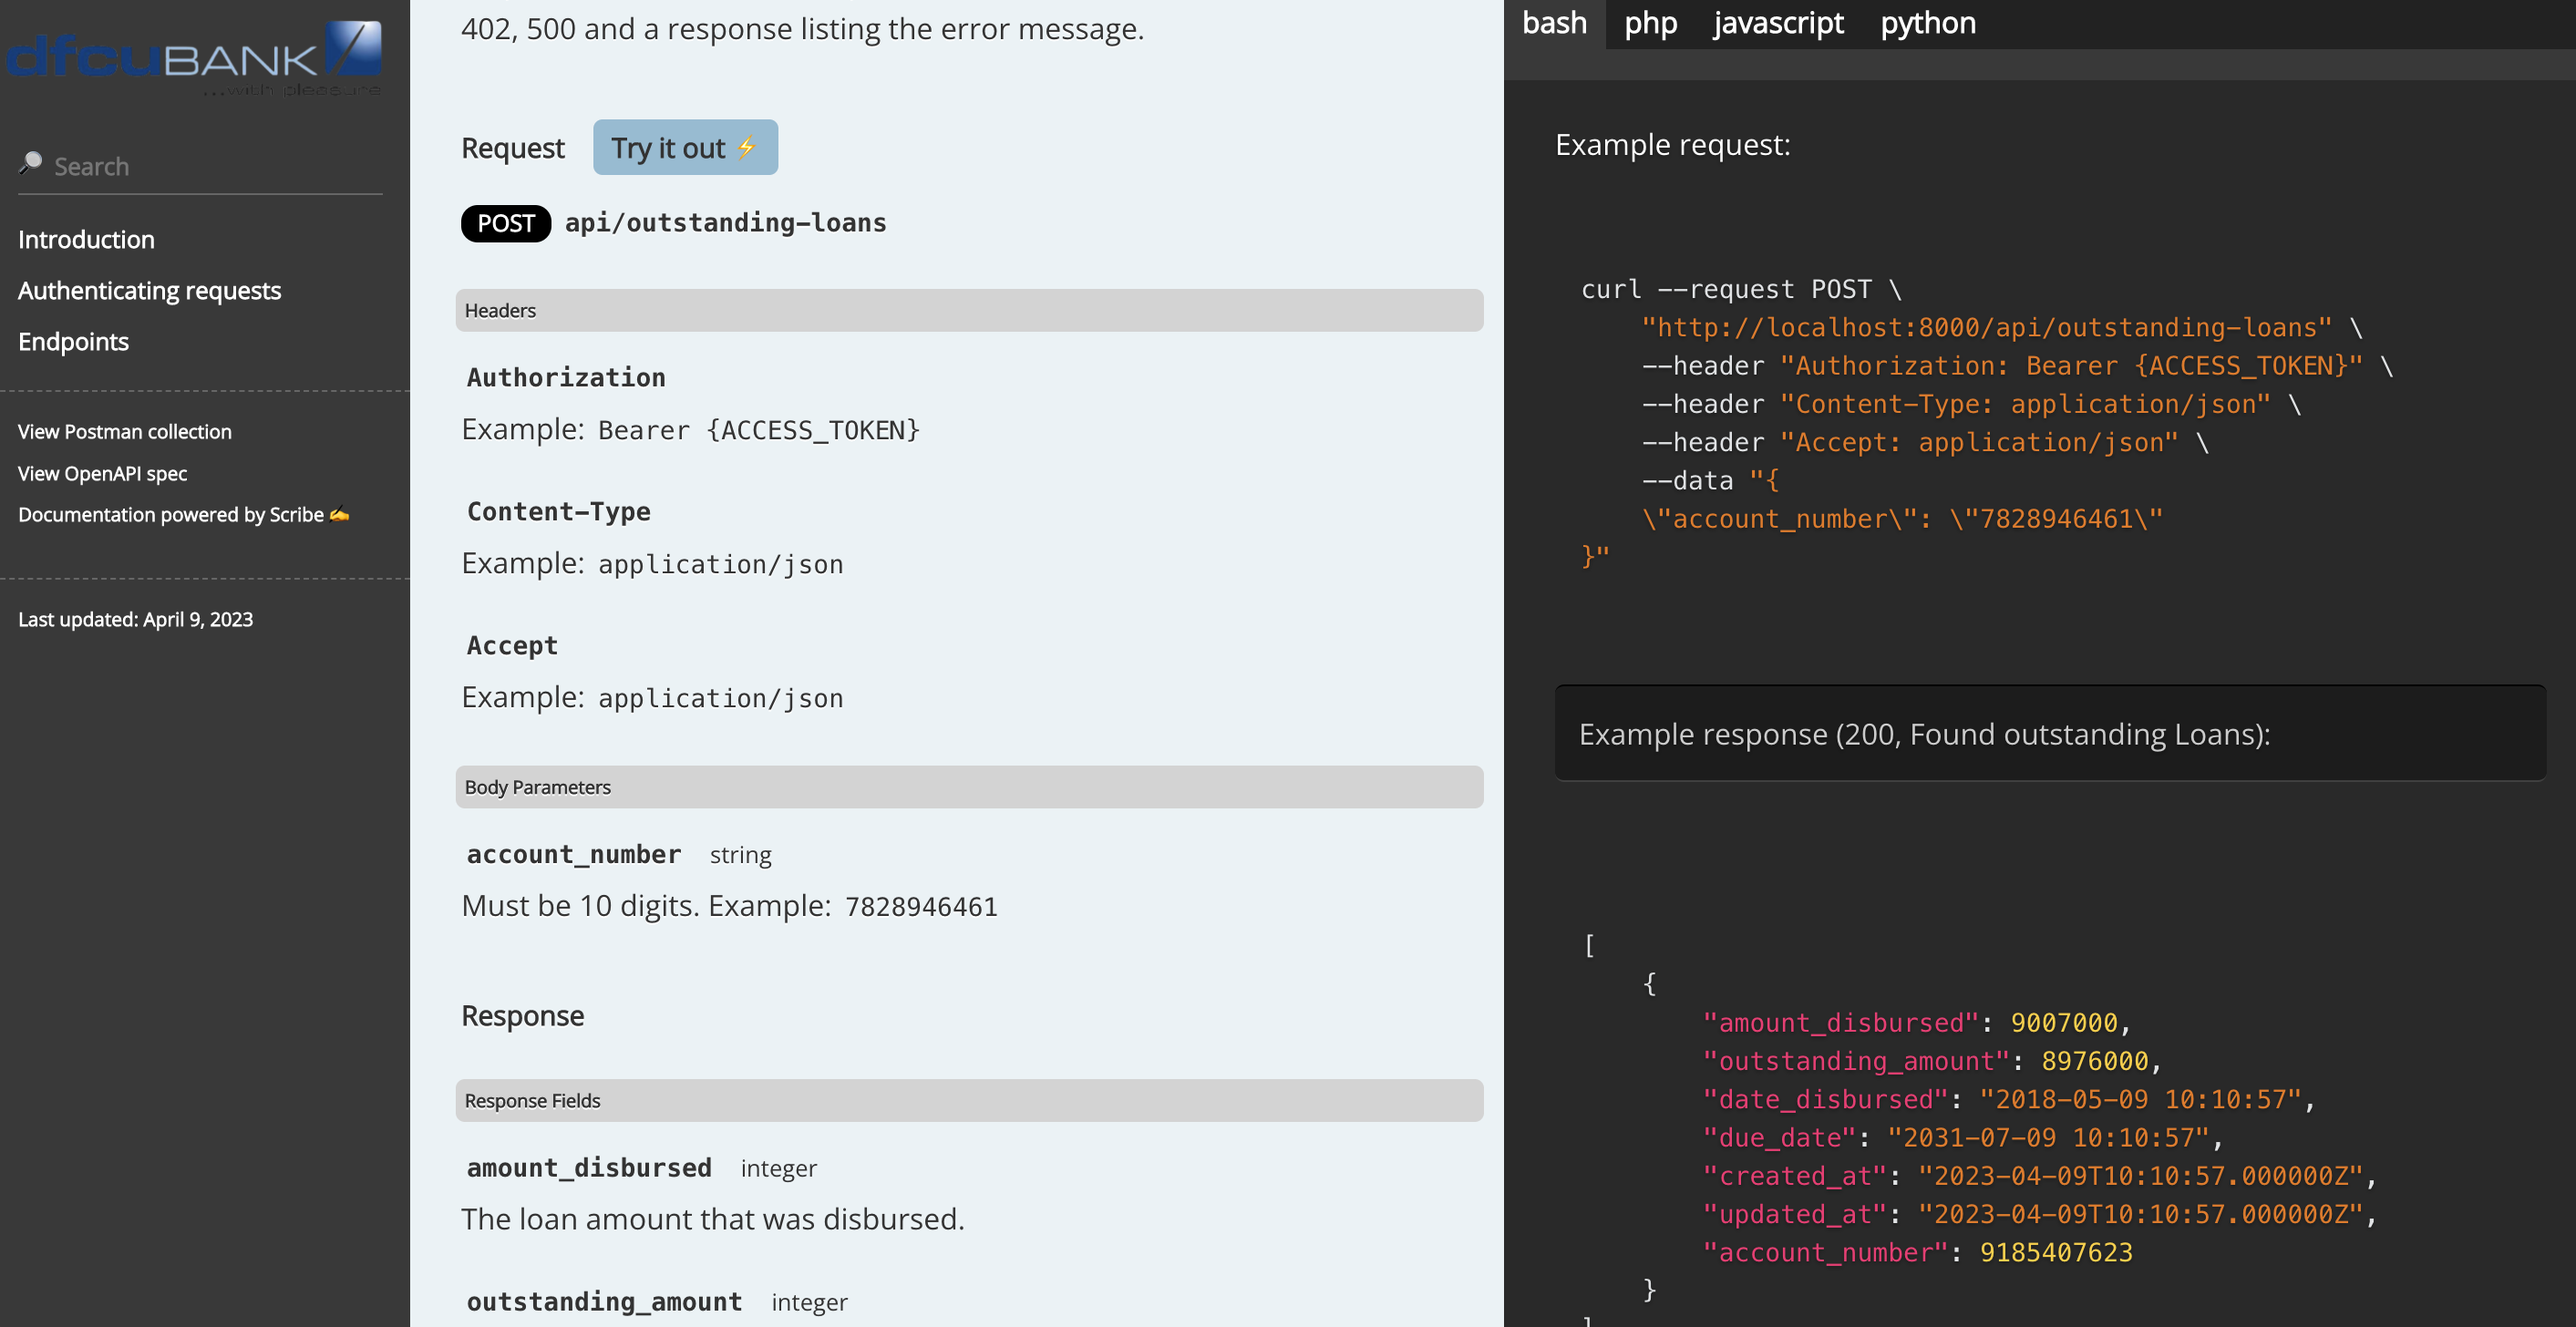
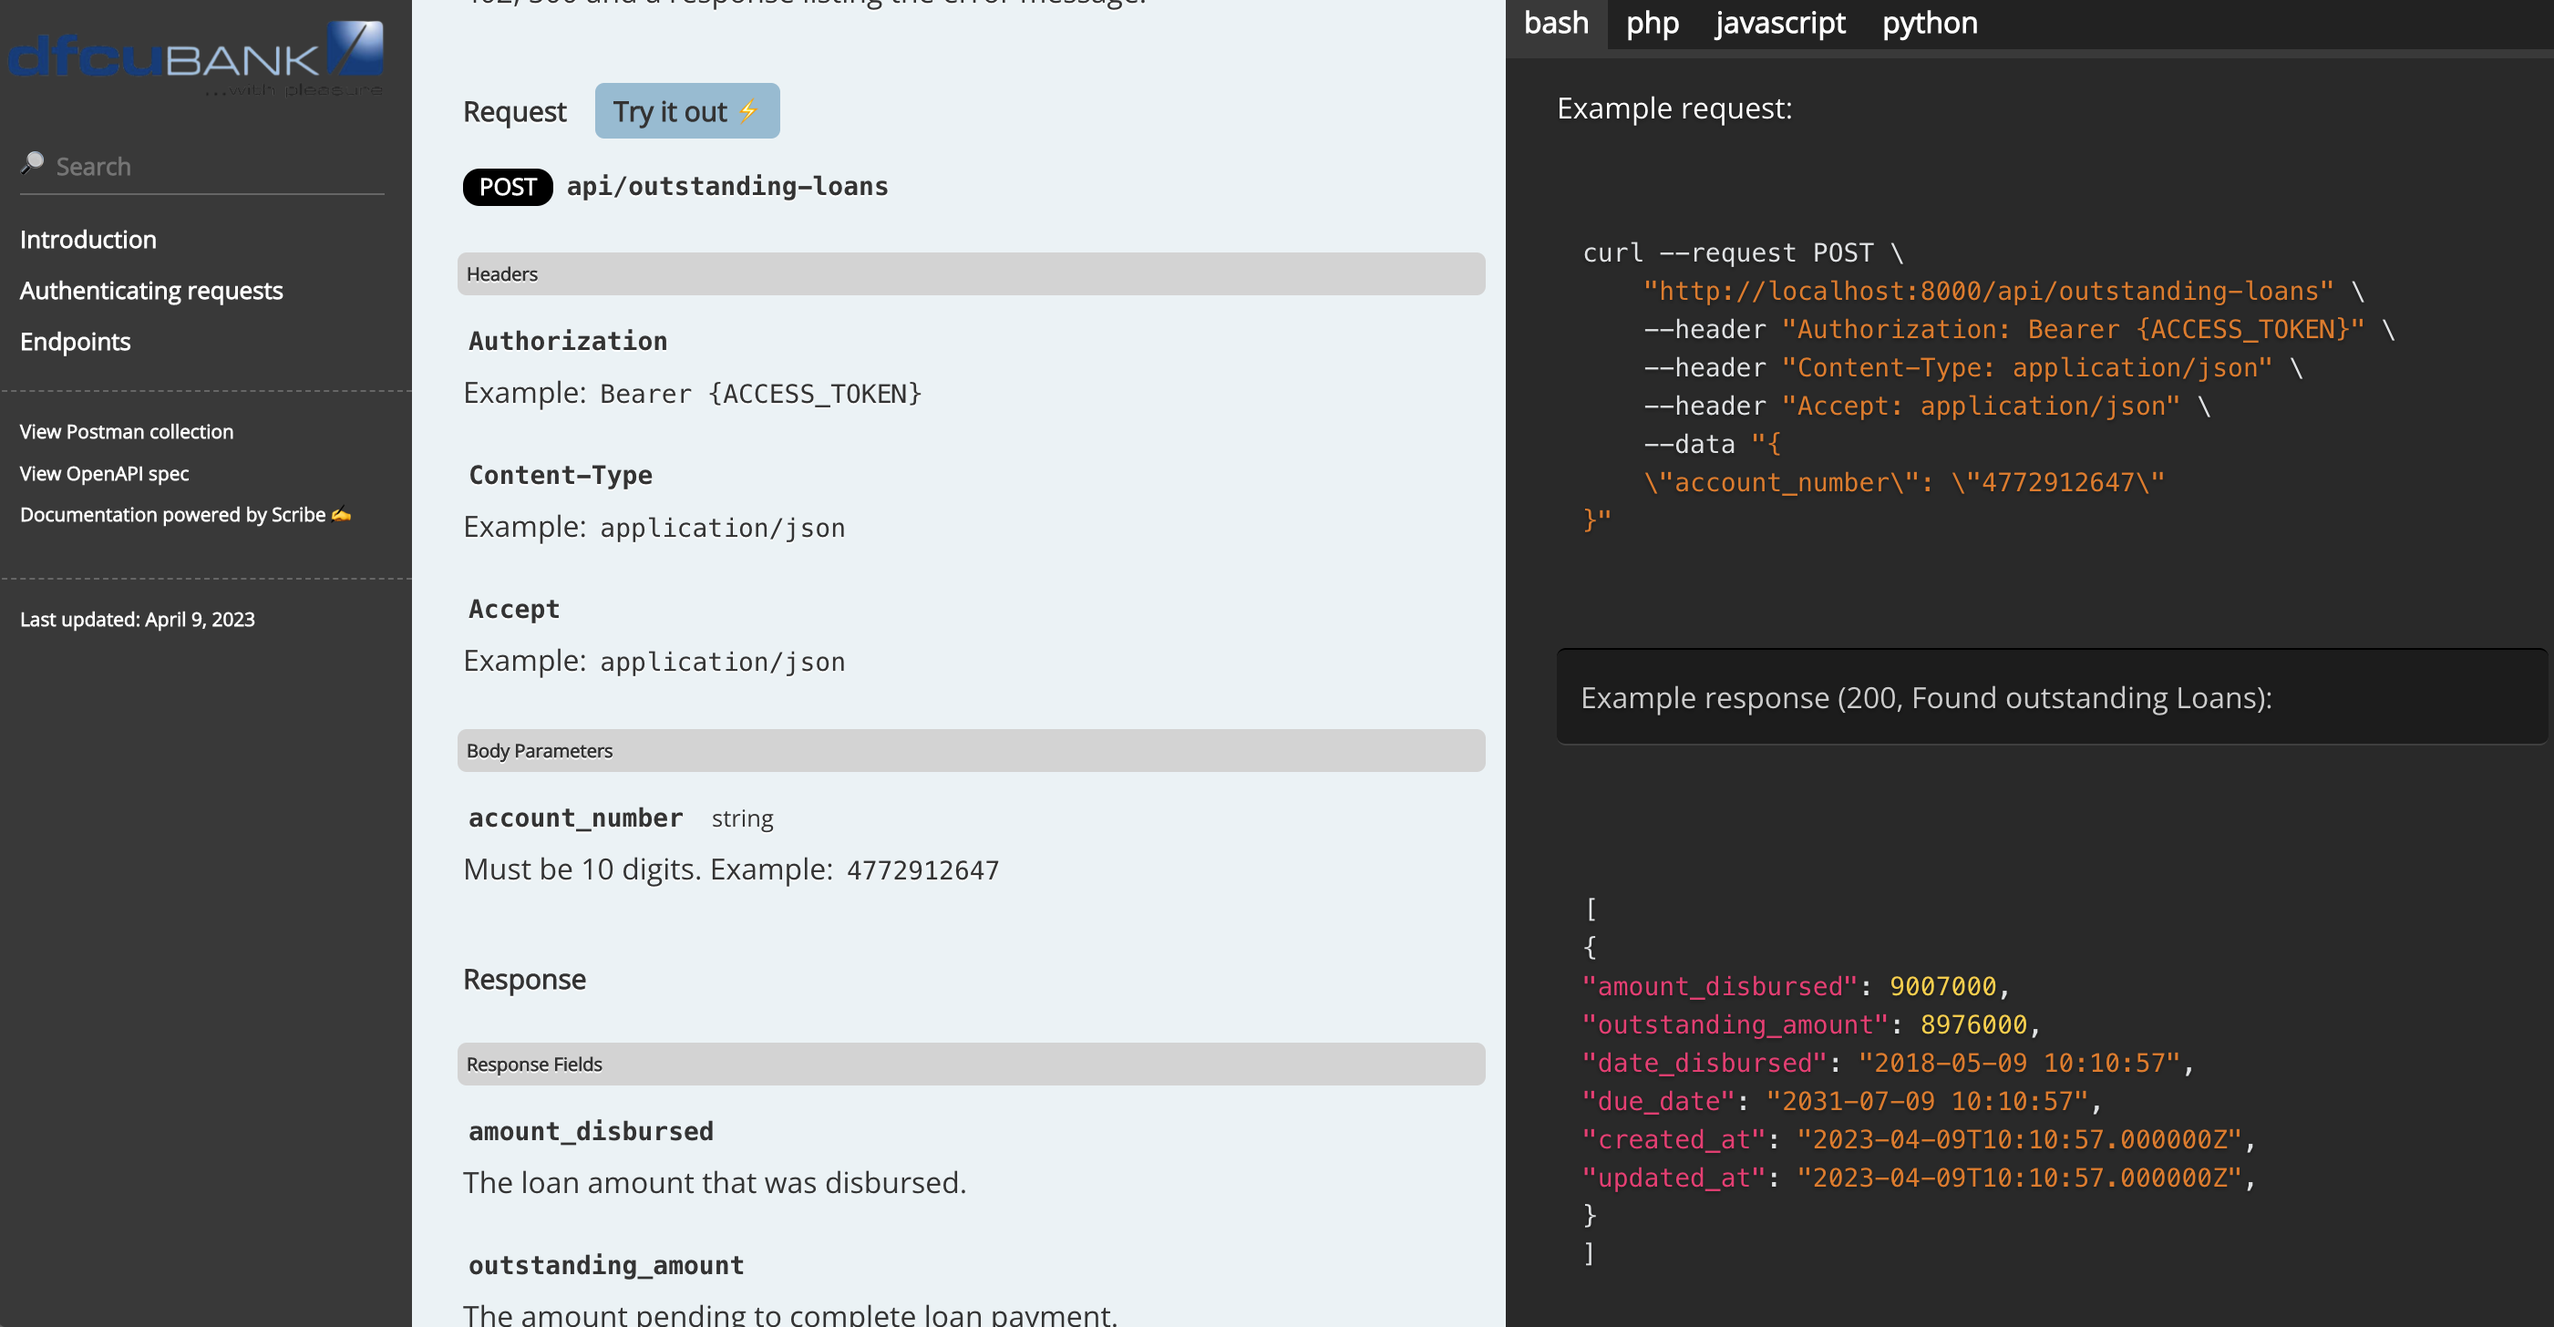
update docs

diff --git a/public/docs/index.html b/public/docs/index.html
@@ -136,7 +136,7 @@ Otherwise, the request will fail with an error code such as 400, 402, 500 and a 
     --header "Content-Type: application/json" \
     --header "Accept: application/json" \
     --data "{
-    \"account_number\": \"7828946461\"
+    \"account_number\": \"4772912647\"
 }"
 </code></pre></div>
 
@@ -152,7 +152,7 @@ $response = $client-&gt;post(
             'Accept' =&gt; 'application/json',
         ],
         'json' =&gt; [
-            'account_number' =&gt; '7828946461',
+            'account_number' =&gt; '4772912647',
         ],
     ]
 );
@@ -172,7 +172,7 @@ const headers = {
 };
 
 let body = {
-    "account_number": "7828946461"
+    "account_number": "4772912647"
 };
 
 fetch(url, {
@@ -188,7 +188,7 @@ import json
 
 url = 'http://localhost:8000/api/outstanding-loans'
 payload = {
-    "account_number": "7828946461"
+    "account_number": "4772912647"
 }
 headers = {
   'Authorization': 'Bearer {ACCESS_TOKEN}',
@@ -208,15 +208,14 @@ response.json()</code></pre></div>
                 <pre>
 
 <code class="language-json" style="max-height: 300px;">[
-    {
-        &quot;amount_disbursed&quot;: 9007000,
-        &quot;outstanding_amount&quot;: 8976000,
-        &quot;date_disbursed&quot;: &quot;2018-05-09 10:10:57&quot;,
-        &quot;due_date&quot;: &quot;2031-07-09 10:10:57&quot;,
-        &quot;created_at&quot;: &quot;2023-04-09T10:10:57.000000Z&quot;,
-        &quot;updated_at&quot;: &quot;2023-04-09T10:10:57.000000Z&quot;,
-        &quot;account_number&quot;: 9185407623
-    }
+{
+&quot;amount_disbursed&quot;: 9007000,
+&quot;outstanding_amount&quot;: 8976000,
+&quot;date_disbursed&quot;: &quot;2018-05-09 10:10:57&quot;,
+&quot;due_date&quot;: &quot;2031-07-09 10:10:57&quot;,
+&quot;created_at&quot;: &quot;2023-04-09T10:10:57.000000Z&quot;,
+&quot;updated_at&quot;: &quot;2023-04-09T10:10:57.000000Z&quot;,
+}
 ]</code>
  </pre>
             <blockquote>
@@ -313,10 +312,10 @@ response.json()</code></pre></div>
  &nbsp;
                 <input type="text" style="display: none"
                name="account_number"                data-endpoint="POSTapi-outstanding-loans"
-               value="7828946461"
+               value="4772912647"
                data-component="body">
     <br>
-<p>Must be 10 digits. Example: <code>7828946461</code></p>
+<p>Must be 10 digits. Example: <code>4772912647</code></p>
         </div>
         </form>
 
@@ -324,42 +323,42 @@ response.json()</code></pre></div>
     <h4 class="fancy-heading-panel"><b>Response Fields</b></h4>
     <div style=" padding-left: 28px;  clear: unset;">
             <b style="line-height: 2;"><code>amount_disbursed</code></b>&nbsp;&nbsp;
-<small>integer</small>&nbsp;
+&nbsp;
  &nbsp;
 <br>
 <p>The loan amount that was disbursed.</p>
         </div>
                 <div style=" padding-left: 28px;  clear: unset;">
             <b style="line-height: 2;"><code>outstanding_amount</code></b>&nbsp;&nbsp;
-<small>integer</small>&nbsp;
+&nbsp;
  &nbsp;
 <br>
 <p>The amount pending to complete loan payment.</p>
         </div>
                 <div style=" padding-left: 28px;  clear: unset;">
             <b style="line-height: 2;"><code>date_disbursed</code></b>&nbsp;&nbsp;
-<small>string</small>&nbsp;
+&nbsp;
  &nbsp;
 <br>
 <p>The date when the loan was disbursed.</p>
         </div>
                 <div style=" padding-left: 28px;  clear: unset;">
             <b style="line-height: 2;"><code>due_date</code></b>&nbsp;&nbsp;
-<small>string</small>&nbsp;
+&nbsp;
  &nbsp;
 <br>
 <p>The date when the loan is supposed to have been paid off.</p>
         </div>
                 <div style=" padding-left: 28px;  clear: unset;">
             <b style="line-height: 2;"><code>created_at</code></b>&nbsp;&nbsp;
-<small>string</small>&nbsp;
+&nbsp;
  &nbsp;
 <br>
 <p>The date when the loan was disbursed.</p>
         </div>
                 <div style=" padding-left: 28px;  clear: unset;">
             <b style="line-height: 2;"><code>updated_at</code></b>&nbsp;&nbsp;
-<small>string</small>&nbsp;
+&nbsp;
  &nbsp;
 <br>
 <p>The date when the loan was updated.</p>

diff --git a/app/Http/Controllers/LoanController.php b/app/Http/Controllers/LoanController.php
@@ -22,13 +22,12 @@ class LoanController extends Controller
      *
      * @response 200 scenario="Found outstanding Loans" [
             {
-            "amount_disbursed": 9007000,
-            "outstanding_amount": 8976000,
-            "date_disbursed": "2018-05-09 10:10:57",
-            "due_date": "2031-07-09 10:10:57",
-            "created_at": "2023-04-09T10:10:57.000000Z",
-            "updated_at": "2023-04-09T10:10:57.000000Z",
-            "account_number": 9185407623
+                "amount_disbursed": 9007000,
+                "outstanding_amount": 8976000,
+                "date_disbursed": "2018-05-09 10:10:57",
+                "due_date": "2031-07-09 10:10:57",
+                "created_at": "2023-04-09T10:10:57.000000Z",
+                "updated_at": "2023-04-09T10:10:57.000000Z",
             }
         ]
      * @response 422 scenario="Account Number Validation errors" {
